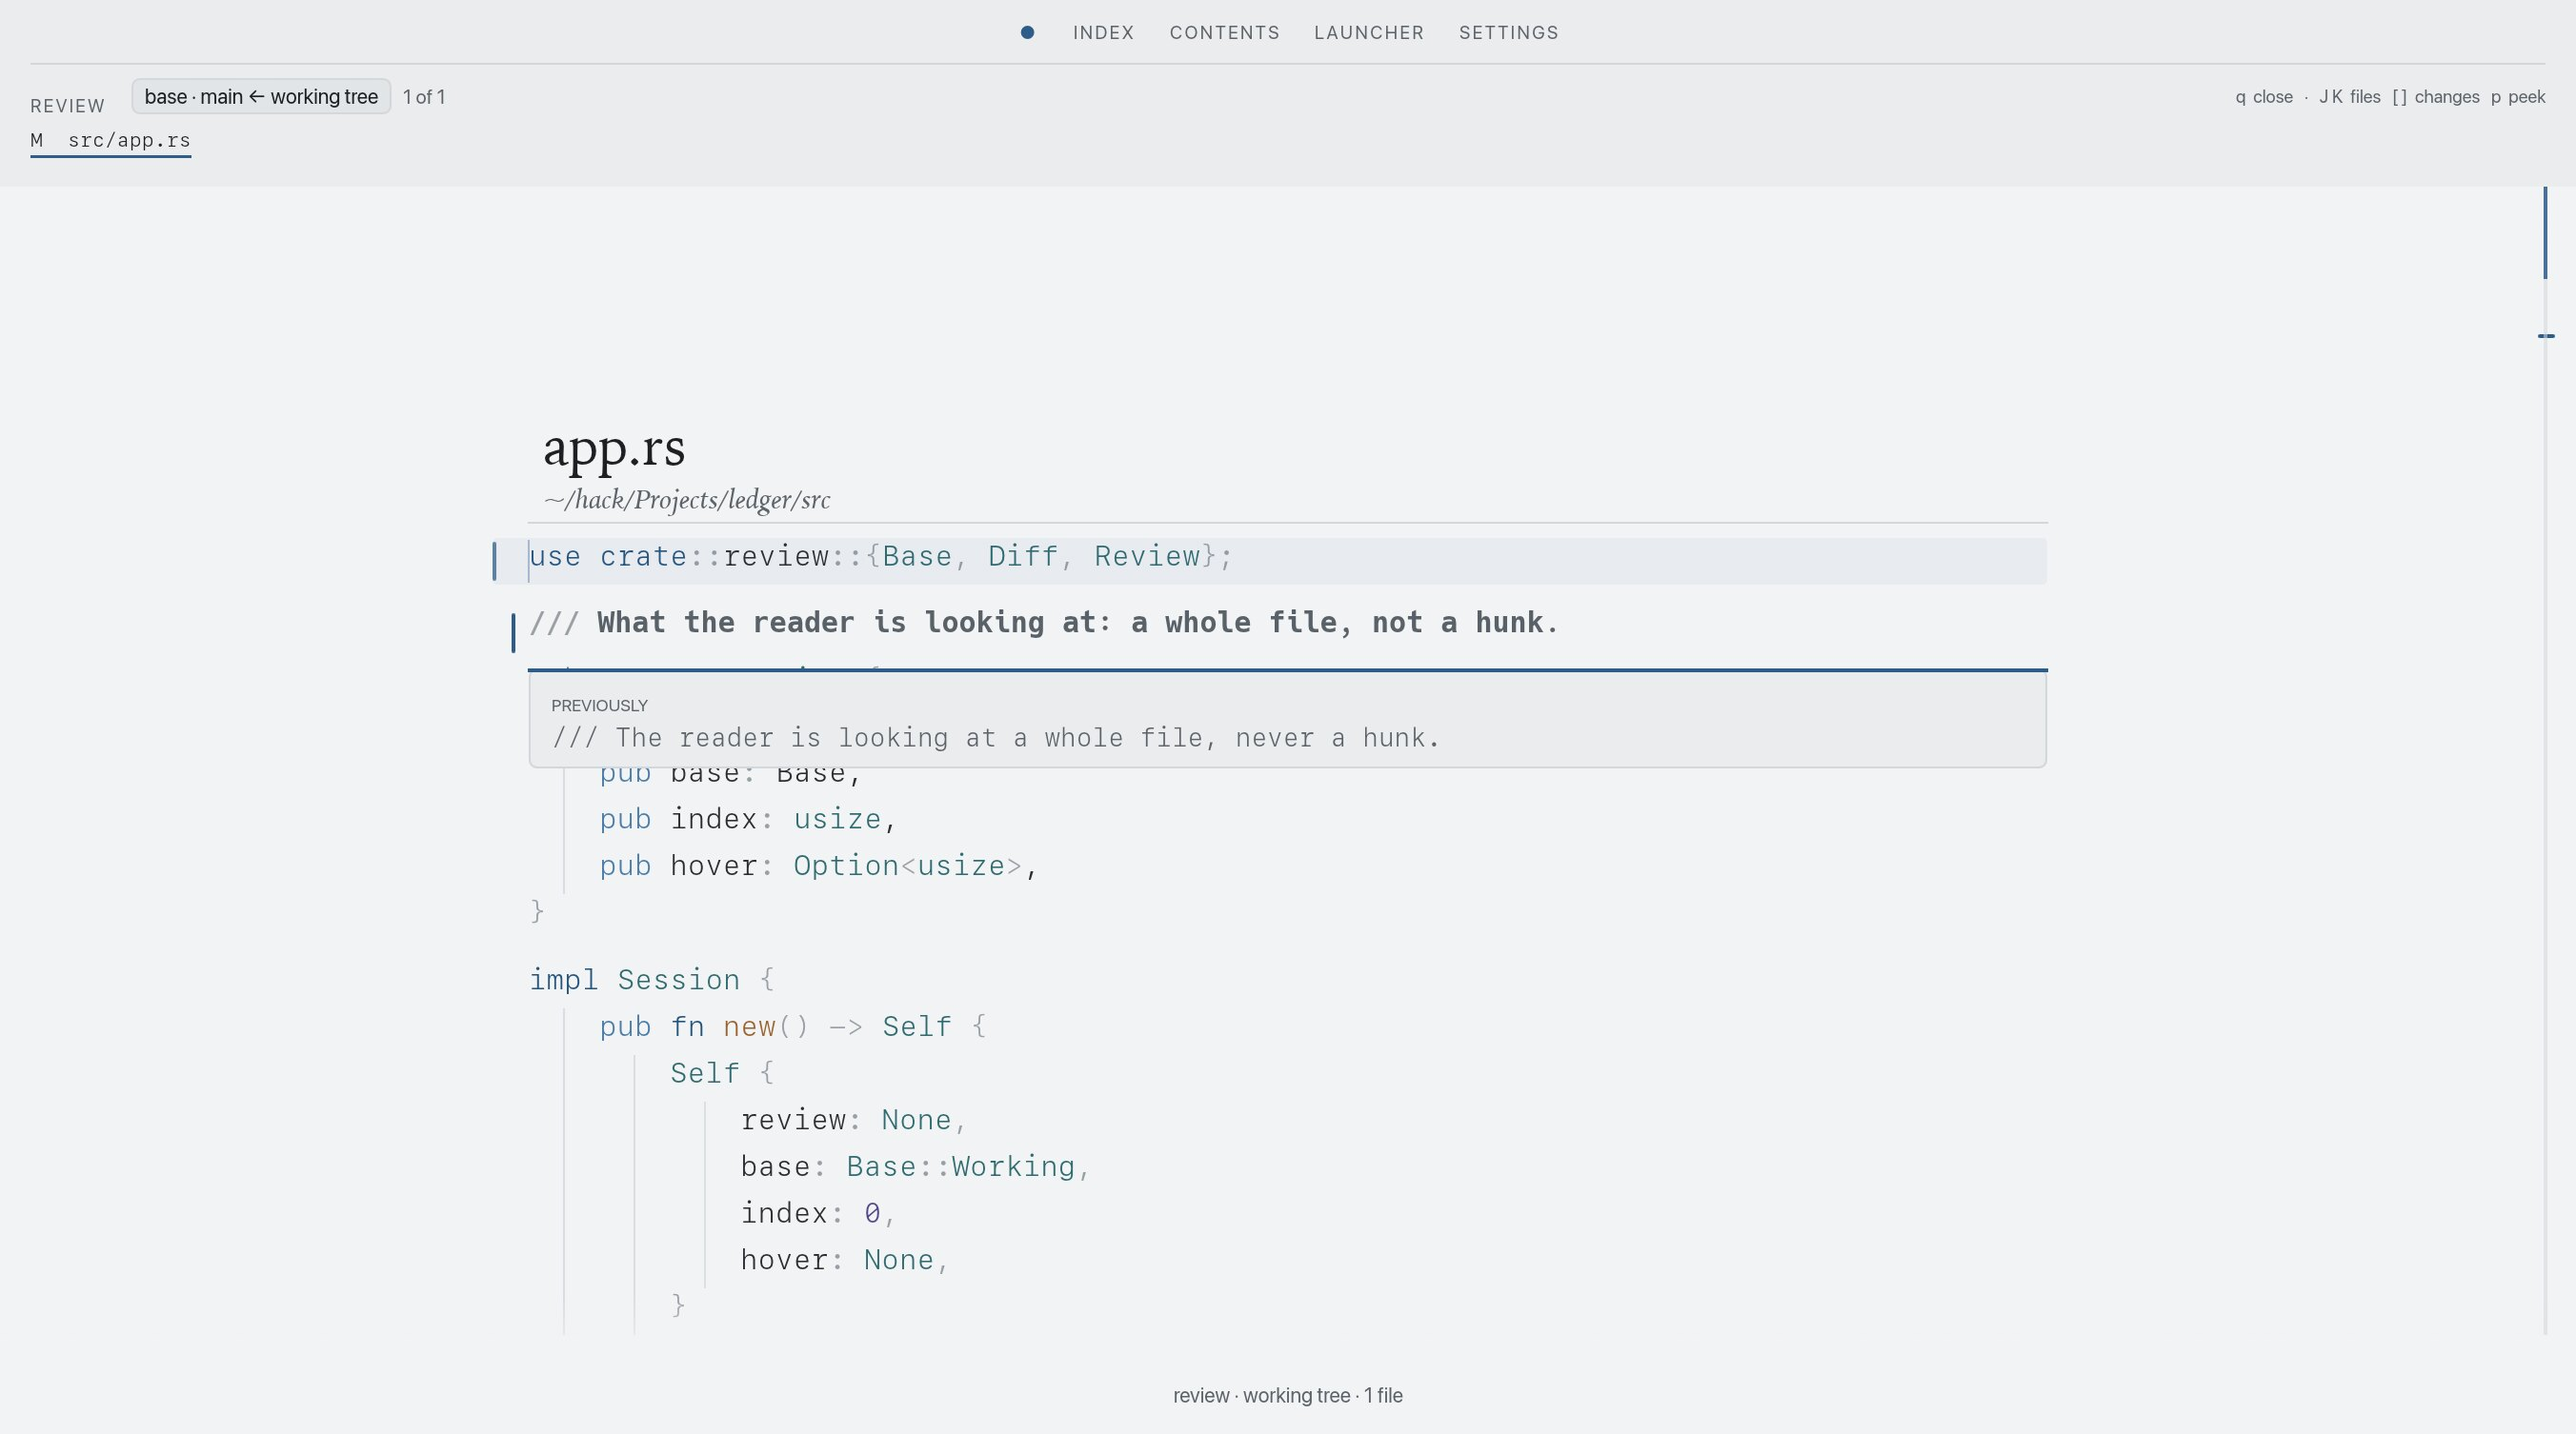
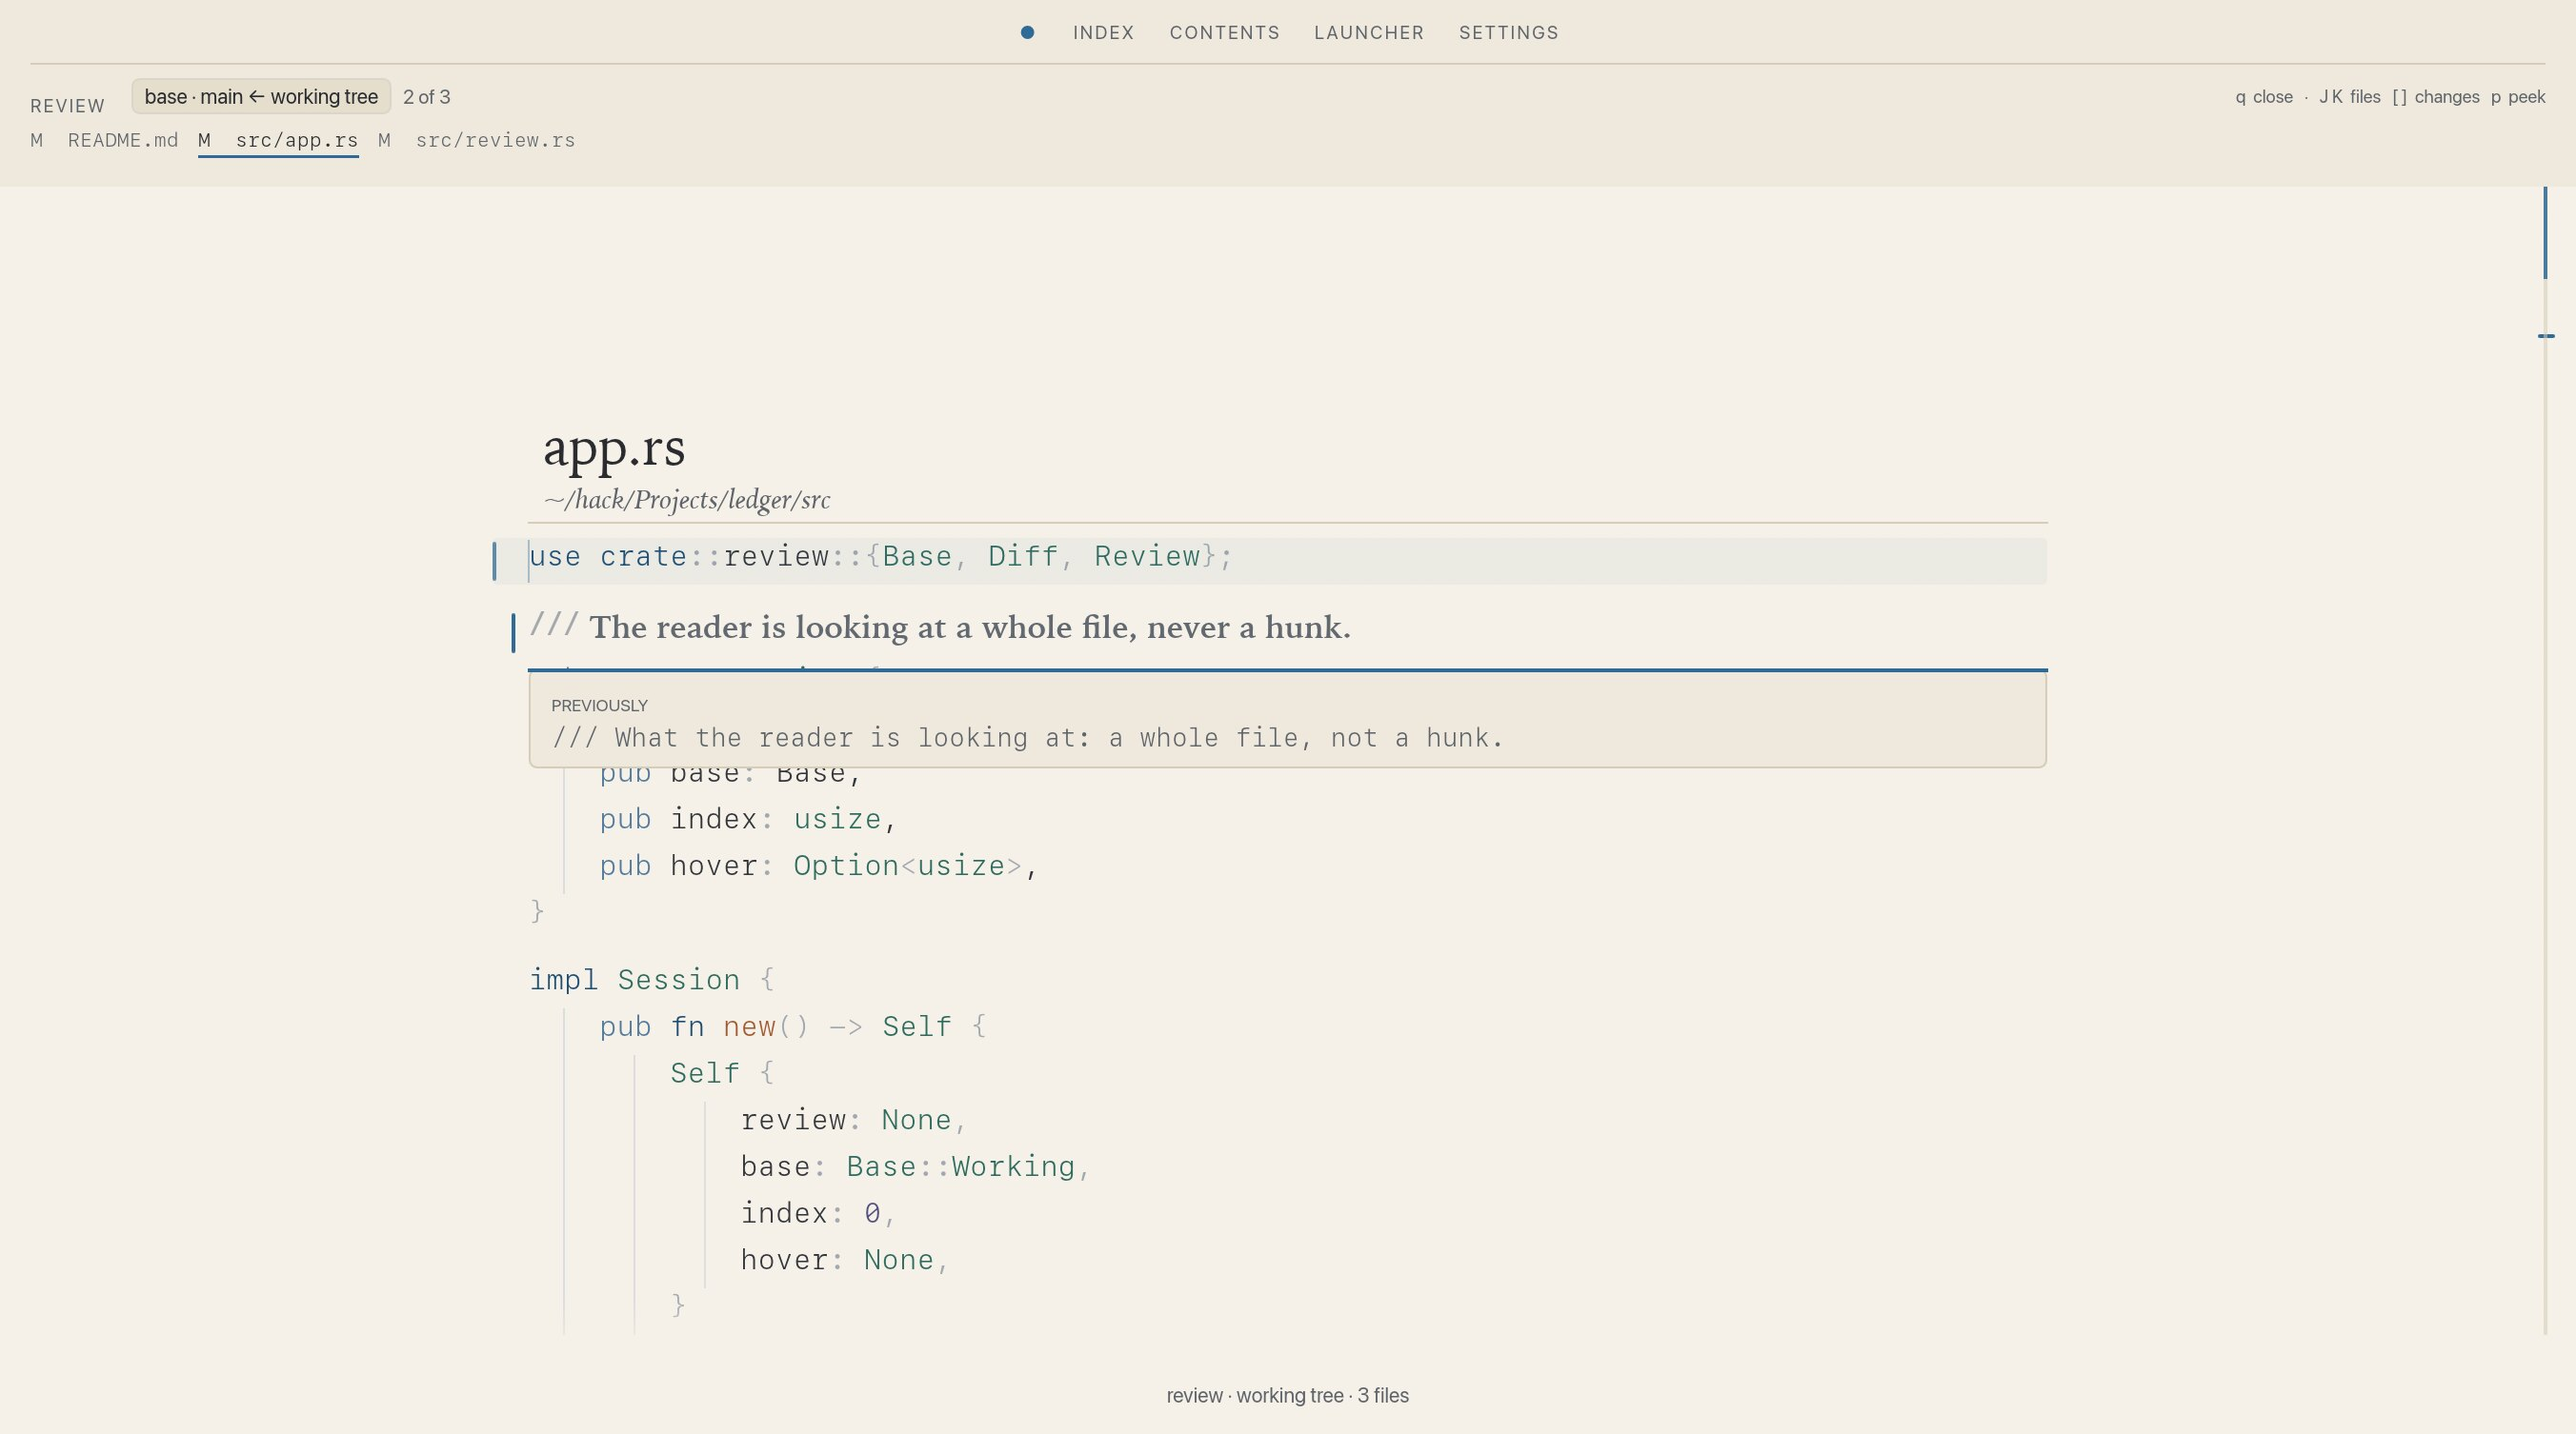
Recapture the review in Lugano with three files
The previous review shot inherited Newsprint from the theme sweep, so its cool
paper sat next to a Lugano page. The capture now runs with Lugano explicitly and
uses a three-file fixture: README, app.rs and review.rs, with app.rs current and
a changed line lifted.

The query versions move to v3 so the new captures are not served from cache.

diff --git a/docs/index.html b/docs/index.html
@@ -11,10 +11,10 @@
   <meta property="og:description" content="A native code reader for code you have to understand but didn't write. Read-only, with branch review, six complete looks and no editor in the way.">
   <meta property="og:type" content="website">
   <meta property="og:url" content="https://dovidio.github.io/zenith/">
-  <meta property="og:image" content="https://dovidio.github.io/zenith/reading-detail.jpg?v=2">
+  <meta property="og:image" content="https://dovidio.github.io/zenith/reading-detail.jpg?v=3">
   <meta name="twitter:card" content="summary_large_image">
   <link rel="stylesheet" href="zenith.css">
-  <link rel="stylesheet" href="site.css?v=2">
+  <link rel="stylesheet" href="site.css?v=3">
   <script>
     (function () {
       var valid = { lugano: 1, maionese: 1, bibione: 1, kununurra: 1, panittha: 1, newsprint: 1 };
@@ -112,8 +112,8 @@ cargo run --release -- ~/code/some-project</code></pre>
       <p>Read-only isn't a setting here. It's the shape of the room. Markdown renders as a document; a fenced <code>#</code> stays code.</p>
     </div>
     <figure class="window">
-      <a href="self-portrait.jpg?v=2"><img src="reading-detail.jpg?v=2" width="1700" height="900" loading="lazy" alt="The actual Zenith window, detail: review.rs with its title block, the bloom above it, and the first lines of the reading page."></a>
-      <figcaption>Lugano · the actual app, detail · <a href="self-portrait.jpg?v=2">full size</a></figcaption>
+      <a href="self-portrait.jpg?v=3"><img src="reading-detail.jpg?v=3" width="1700" height="900" loading="lazy" alt="The actual Zenith window, detail: review.rs with its title block, the bloom above it, and the first lines of the reading page."></a>
+      <figcaption>Lugano · the actual app, detail · <a href="self-portrait.jpg?v=3">full size</a></figcaption>
     </figure>
   </section>
 
@@ -125,8 +125,8 @@ cargo run --release -- ~/code/some-project</code></pre>
       <p>Changed lines carry more weight, and the code they replaced lifts in place when you hover or press <code>p</code>. Untracked source is included; dependency trees never are. <code>J K</code> walks files, <code>[ ]</code> walks changes, and a definition detour returns to the same review page.</p>
     </div>
     <figure class="window">
-      <a href="review.jpg?v=2"><img src="review-detail.jpg?v=2" width="1700" height="900" loading="lazy" alt="The actual Zenith window reviewing a working tree: the REVIEW strip names the branch and base, the changed file sits in the strip, and a changed line is lifted to show the code it replaced."></a>
-      <figcaption>Lugano · review, reading whole files · <a href="review.jpg?v=2">full size</a></figcaption>
+      <a href="review.jpg?v=3"><img src="review-detail.jpg?v=3" width="1700" height="900" loading="lazy" alt="The actual Zenith window reviewing three changed files: the REVIEW strip names the branch and base, the three files sit in the strip, and a changed line is lifted to show the code it replaced."></a>
+      <figcaption>Lugano · three changed files · <a href="review.jpg?v=3">full size</a></figcaption>
     </figure>
   </section>
 

diff --git a/README.md b/README.md
@@ -7,7 +7,7 @@
 **A reading room for source code.**  
 <https://dovidio.github.io/zenith/>
 
-![Zenith reading its own source](docs/self-portrait.jpg?v=2)
+![Zenith reading its own source](docs/self-portrait.jpg?v=3)
 
 Zenith is a native, read-only code reader for code you have to understand but didn't write: a review, an inherited service, a dependency you need to trust. It is not an editor with the editing removed. The page opens alone; the index, contents, launcher and settings are doors you summon.
 
@@ -25,7 +25,7 @@ Review reads whole files, not hunks. `g r` opens the working tree; `g b` chooses
 
 Changed lines carry more weight, and the code they replaced lifts in place when you hover it or press `p`. Untracked source is included; ignored and dependency trees never are. `J K` moves through changed files, `[ ]` through changes, and `q` keeps the review through a definition detour.
 
-![Reviewing a branch in Zenith](docs/review-detail.jpg?v=2)
+![Reviewing three changed files in Zenith](docs/review-detail.jpg?v=3)
 
 ## Reading
 
